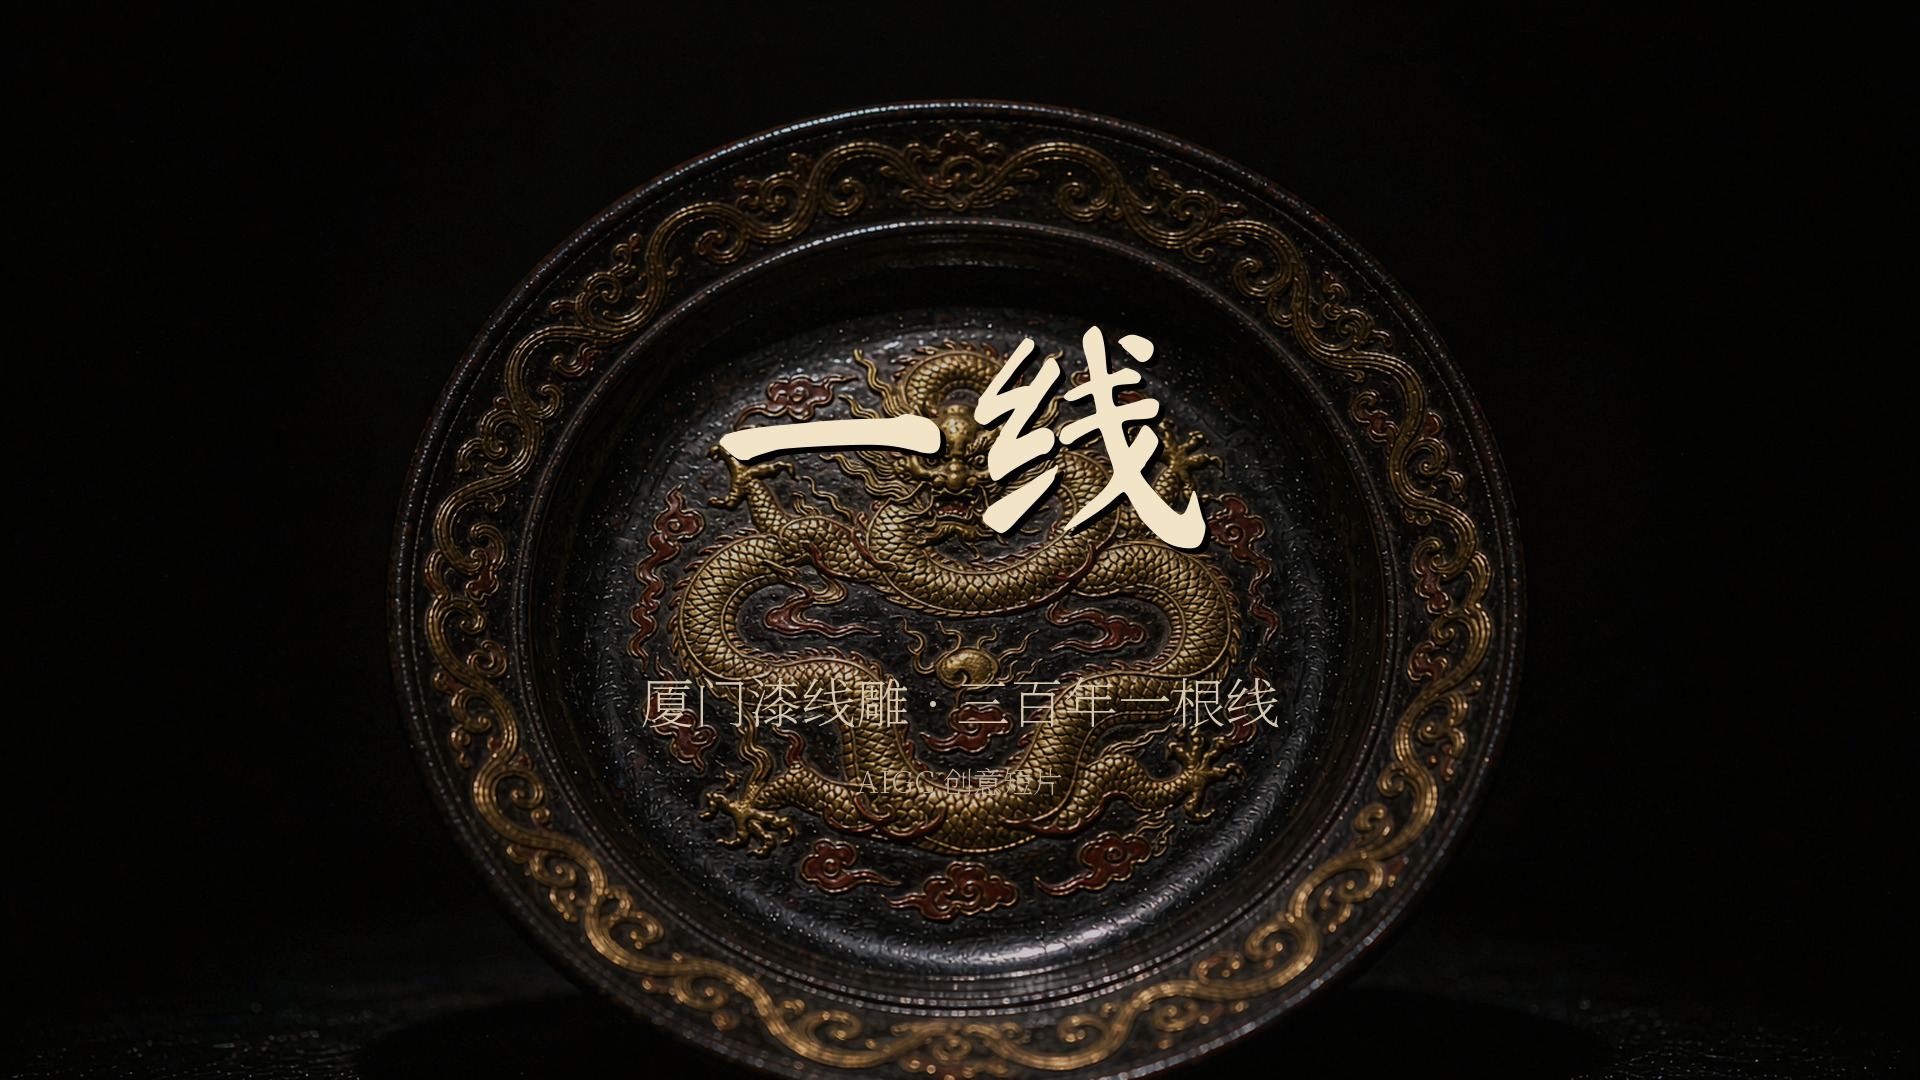
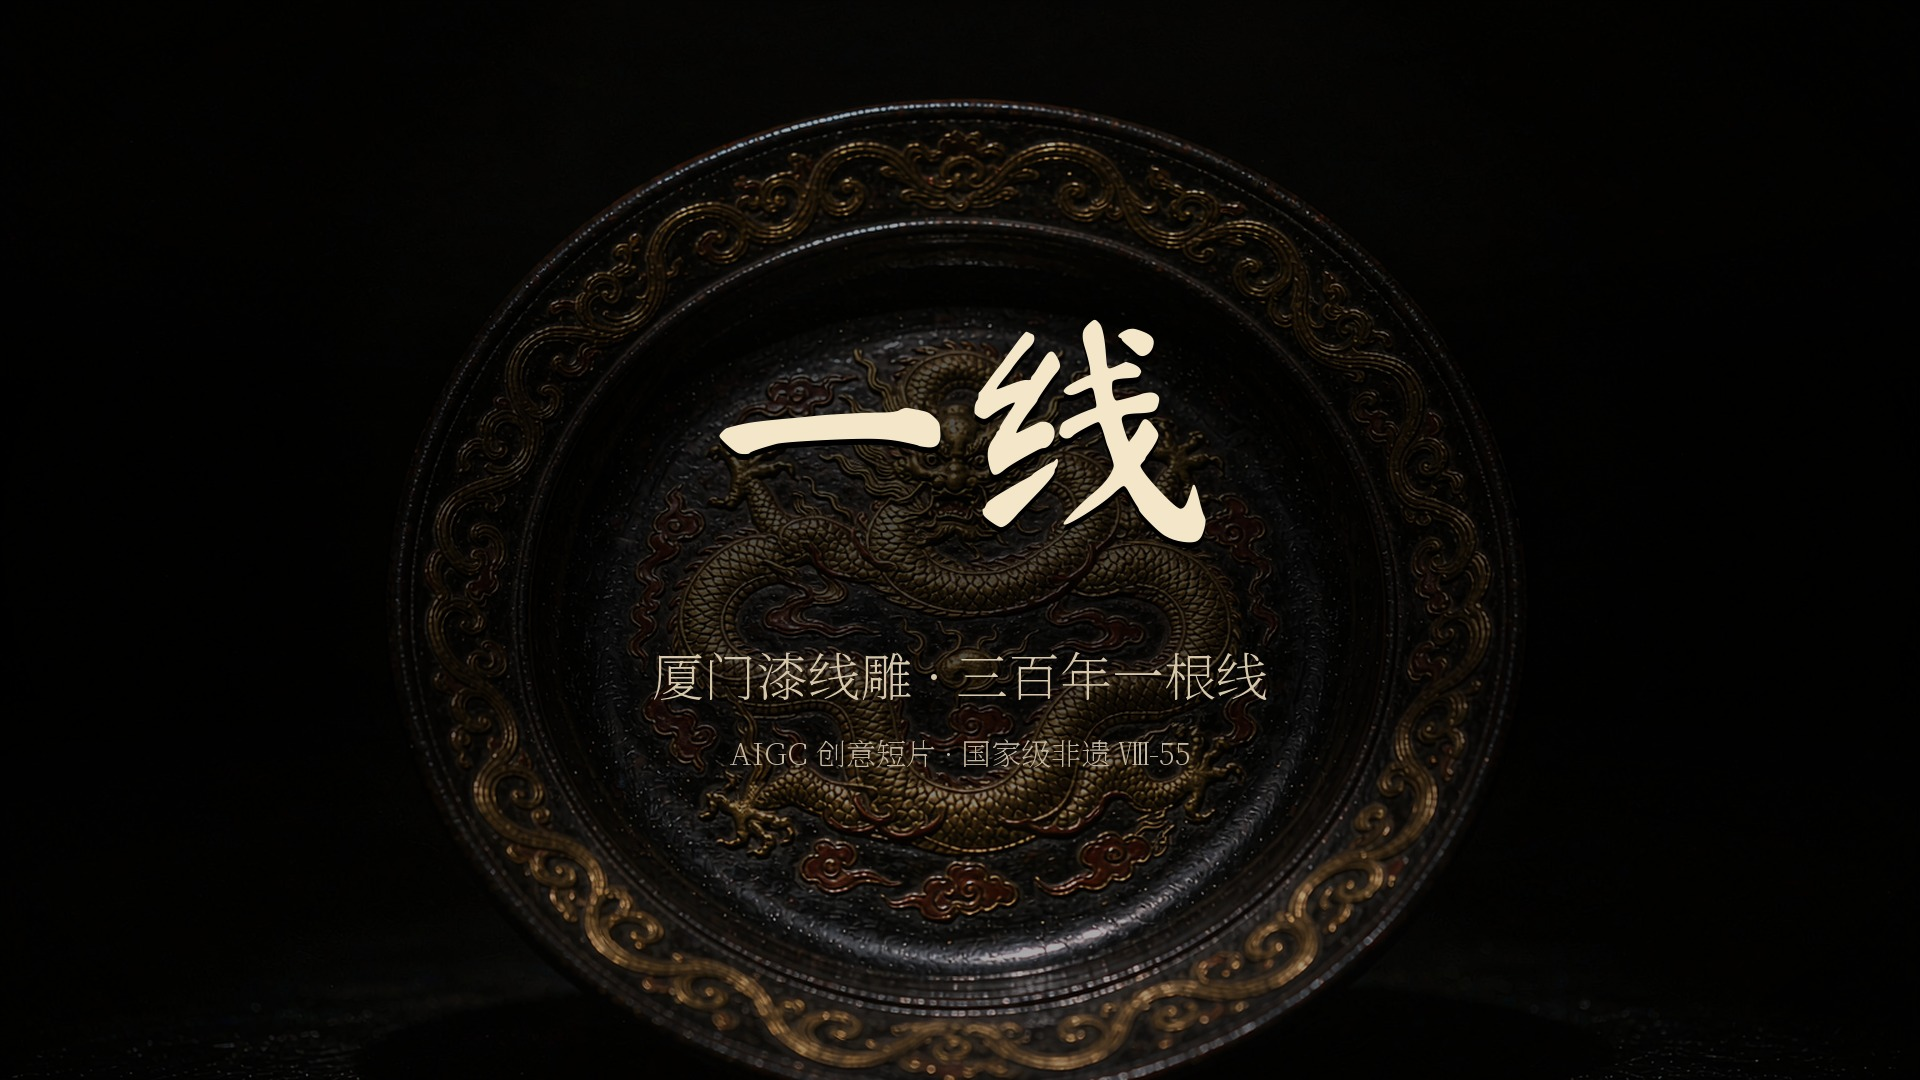
封面：文字带压暗，字不再和龙纹糊在一起

diff --git a/scripts/site.py b/scripts/site.py
@@ -149,28 +149,38 @@ def grab(t, w=1600):
 
 
 def poster():
-    """封面：P15 的盘 + 片名，1920×1080。"""
+    """封面：P15 的盘 + 片名。字压在图上的地方先压一层柔和的暗带，保证字读得清。"""
+    import numpy as np
+
     im = Image.open(os.path.join(ROOT, "assets", "plates", "P15.png")).convert("RGB")
     k = 1920 / im.width
     im = im.crop((0, 0, im.width, int(1080 / k))).resize((1920, 1080), Image.LANCZOS)
-    im = im.point(lambda v: int(v * 0.78))
+    arr = np.asarray(im, np.float32) * 0.72
+
+    # 文字带：y 240–820，上下软边；带内把画面压到 32%，带外 72%
+    yy = np.arange(1080, dtype=np.float32)[:, None]
+    a = np.clip(np.minimum((yy - 200) / 180.0, (880 - yy) / 180.0), 0, 1)
+    arr = arr * (1 - 0.56 * a)[..., None]
+    # 径向暗角
+    yy2, xx2 = np.mgrid[0:1080, 0:1920].astype(np.float32)
+    r = np.sqrt(((xx2 - 960) / 1150) ** 2 + ((yy2 - 540) / 700) ** 2)
+    arr = arr * np.clip(1.08 - 0.42 * np.clip(r, 0, 1.6) ** 2.0, 0.35, 1.0)[..., None]
+    im = Image.fromarray(np.clip(arr, 0, 255).astype(np.uint8))
     d = ImageDraw.Draw(im)
+
     f1 = ImageFont.truetype(FONT_BRUSH, 260)
-    f2 = ImageFont.truetype(FONT_SERIF, 54)
+    f2 = ImageFont.truetype(FONT_SERIF, 52)
     f3 = ImageFont.truetype(FONT_SERIF, 30)
 
-    bb = d.textbbox((0, 0), S.TITLE, font=f1)
-    x = (1920 - (bb[2] - bb[0])) // 2 - bb[0]
-    d.text((x + 6, 306), S.TITLE, font=f1, fill=(0, 0, 0))
-    d.text((x, 300), S.TITLE, font=f1, fill=(242, 228, 198))
+    def center(txt, font, y, fill, tracking=0):
+        bb = d.textbbox((0, 0), txt, font=font)
+        x = (1920 - (bb[2] - bb[0])) // 2 - bb[0]
+        d.text((x, y), txt, font=font, fill=fill)
 
-    bb = d.textbbox((0, 0), S.SUBTITLE, font=f2)
-    d.text(((1920 - (bb[2] - bb[0])) // 2 - bb[0], 660), S.SUBTITLE, font=f2,
-           fill=(212, 198, 172))
-
-    bb = d.textbbox((0, 0), "AIGC 创意短片", font=f3)
-    d.text(((1920 - (bb[2] - bb[0])) // 2 - bb[0], 758), "AIGC 创意短片", font=f3,
-           fill=(190, 176, 152))
+    center(S.TITLE, f1, 300, (0, 0, 0))
+    center(S.TITLE, f1, 294, (243, 230, 201))
+    center(S.SUBTITLE, f2, 636, (214, 198, 170))
+    center("AIGC 创意短片 · 国家级非遗 Ⅷ-55", f3, 730, (196, 182, 160))
     im.save(os.path.join(IMG, "cover.jpg"), quality=92)
     im.save(os.path.join(ROOT, "submission", "封面.png"))
     return "cover.jpg"
